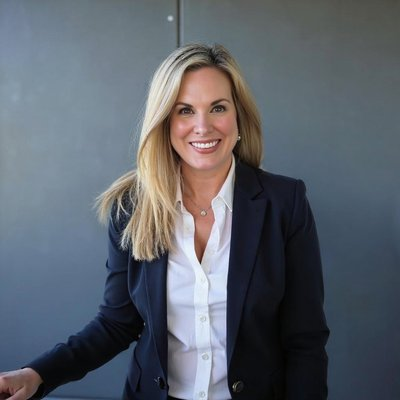
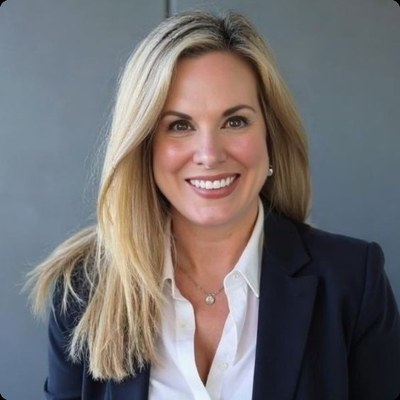
Research: add Kyle Forrest + Alicia Miller Transformation Realness episodes

diff --git a/research/index.html b/research/index.html
@@ -448,6 +448,30 @@ body[data-page="research"] { --accent: var(--sky); }
 
       <article class="pod-card">
         <div class="pod-art" style="aspect-ratio:1/1;overflow:hidden;position:relative;">
+          <img src="/assets/img/appearances/TR_Kyle Forrest _ Transformation Realness.jpg" alt="" style="width:100%;height:100%;object-fit:cover;display:block;">
+        </div>
+        <div class="pod-body">
+          <small style="display:block;font-size:.58rem;letter-spacing:.18em;text-transform:uppercase;color:var(--sky);font-weight:600;margin-bottom:.35rem;">Reactive to Proactive</small>
+          <h3>Reimagining HR &amp; AI Integration</h3>
+          <p>Kyle Lagunas and Deloitte's Kyle Forrest on why 93% of AI spend still goes to technology over people, and how HR moves from reactive to proactive to lead the transformation.</p>
+          <a href="https://open.spotify.com/episode/6IbBgf8HDph6eKeqJY21zv" class="listen" target="_blank" rel="noopener noreferrer">Listen on Spotify <span aria-hidden="true">→</span></a>
+        </div>
+      </article>
+
+      <article class="pod-card">
+        <div class="pod-art" style="aspect-ratio:1/1;overflow:hidden;position:relative;">
+          <img src="/assets/img/appearances/TR_Alicia Miller _ Transformation Realness.jpg" alt="" style="width:100%;height:100%;object-fit:cover;display:block;">
+        </div>
+        <div class="pod-body">
+          <small style="display:block;font-size:.58rem;letter-spacing:.18em;text-transform:uppercase;color:var(--sky);font-weight:600;margin-bottom:.35rem;">Human-Centric AI</small>
+          <h3>Redefining Human-Centric AI Strategies</h3>
+          <p>The IRS's Alicia Miller on leading AI adoption through behavioral science and redesigned work roles, and what it means to be human in the age of AI.</p>
+          <a href="https://open.spotify.com/episode/2KLixI8mrvttF4I7cw0WUw" class="listen" target="_blank" rel="noopener noreferrer">Listen on Spotify <span aria-hidden="true">→</span></a>
+        </div>
+      </article>
+
+      <article class="pod-card">
+        <div class="pod-art" style="aspect-ratio:1/1;overflow:hidden;position:relative;">
           <img src="/assets/img/appearances/TR_Tyler Weeks_ Transformation Realness.png" alt="" style="width:100%;height:100%;object-fit:cover;display:block;">
         </div>
         <div class="pod-body">

diff --git a/aicouncil-update-handoff.md b/aicouncil-update-handoff.md
@@ -1,0 +1,143 @@
+# Claude Code Handoff — AI Council Page Update (July 2026)
+
+**Target file:** `aicouncil/index.html` in the `kyleandco-web` repo (single-file React/JSX page, ~2,500 lines, inline Babel; images base64-inlined or in `aicouncil/`).
+**Goal:** Repurpose the page from "Cohort Zero toolkit showcase" to the Year Two launch: the new agenda goes front and center, the toolkit moves to the bottom, and the primary CTA targets vendors/underwriters.
+**Content source of truth:** deck D1 (all pillar/champion/workstream/member content below was extracted from it on 7/28) — https://docs.google.com/presentation/d/15BLXXlAD8rsCUfWenmZnQIVT-7pjkHQtmq9y17PrFWI/edit
+
+Work in a branch. Do not touch other pages in the repo.
+
+---
+
+## 1. Current page anatomy (verified July 28)
+
+Section order in the rendered JSX:
+
+| # | Section | Notes |
+|---|---------|-------|
+| 1 | Nav | Links: Toolkit `#library`, 2026 Work `#work`, Members `#members`, How to Participate `#join`. CTA button "Join the Council" |
+| 2 | Hero | Badge: `Cohort Two · 2026 · The Year of the Human`. H1 "Stay ahead of AI innovation…". Primary CTA "Explore the Toolkit →" (`#library`) |
+| 3 | About the Council | "Practitioner-led. Five pillars. One goal." — inline 5-pillar array (~line 817), no champions |
+| 4 | Featured post | Links to toolkit blog `kyleandco.com/ai-toolkit-for-hr-leaders/` |
+| 5 | `#library` | The AI Transformation Toolkit — currently "the star", gated resources (`const resources`, ~line 237) |
+| 6 | `#events` | `const events` (~line 527) — **stale**: May 28 "Cohort Zero Toolkit Launch" still marked `upcoming` |
+| 7 | `#work` | `const focusAreas` (~line 328) — 4 old focus areas, replace with the 5 priorities below |
+| 8 | `#cohort2-apply-grid` | Apply section |
+| 9 | `#members` | `const members` (~line 359) — 23 entries incl. Tushar Pandit (~line 466) |
+| 10 | `#join` | Participation forms. MailerLite endpoints defined (~lines 212–217): `ML_APPLY_URL`, `ML_KCO_URL`, `ML_TOWNHALL_URL`, `ML_UNDERWRITER_URL`, `ML_MOMENTUM_URL` |
+
+Other data: `const underwriters` (~line 523) = `['Workday','Findem','Warden AI','Humanly','GoodTime','Rival','isolved','Glider','CodeSignal','Gem','HiBob','SmartRecruiters']`. Analytics via `track()` — preserve and extend, don't remove.
+
+---
+
+## 2. Structural changes
+
+**A. Reorder sections.** New order after hero: **About the Council (pillars + champions) → 2026 Priorities/Workstreams (`#work`) → Members → Events/Town Hall → Join/CTAs → Toolkit (`#library`) at the bottom → Former Contributing Members (also at the bottom, with the toolkit).** Kyle's directive (7/22 1:1): "what should be top and front and center is the agenda… toolkit down at the bottom." Update nav links, mobile menu, footer links, and hero CTAs to match — hero primary CTA points at `#work` or the underwriter CTA, not the toolkit. **The Toolkit keeps its top-nav link** even though the section moves to the bottom (Brandice, 7/28).
+
+**B. Rebuild the CTA strategy.** Primary audience is now **vendors/underwriters** (Kyle, 7/22: "we need more underwriters"). Use existing `ML_UNDERWRITER_URL` form. Secondary CTA: "follow along with the council's work" subscribe (`ML_KCO_URL`). Keep the practitioner apply form but demote it.
+
+**C. Fix `#events`.** Move the May 28 Cohort Zero Toolkit Launch to `status: 'replay'`. Add the **Year Two Launch Town Hall** entry: `date: 'August 27, 2026 · time TBA'`, `status: 'upcoming'`, wired to `ML_TOWNHALL_URL` — vendors explicitly invited. (Confirmed by Brandice 7/28; update time when set.)
+
+**D. Copy pass on hero/meta.** **Naming decision (Brandice, 7/28): "Year Two."** Replace "Cohort Two" everywhere — hero badge (e.g. `Year Two · 2026 · The Year of the Human`), the `#cohort2-apply-grid` id, title/OG meta, and any body copy. Keep the "What is Human?" theme. Where the previous cohort is referenced, "Year One" / "Cohort Zero" per existing toolkit copy.
+
+**E. Cohort work highlight.** Show Year One's shipped toolkit assets as proof of what the council ships, placed with the demoted toolkit section.
+
+**F. Underwriter logo wall — split by year (CONFIRMED by Brandice, 7/28).** Two groups:
+- **Year Two Underwriters (final list, 5):** isolved, Glider, CodeSignal, HiBob, GoodTime. Nothing else goes in this group — Workday, Gem, and SmartRecruiters are Year One only.
+- **Year One Underwriters:** the full original list of 12 (Workday, Findem, Warden AI, Humanly, GoodTime, Rival, isolved, Glider, CodeSignal, Gem, HiBob, SmartRecruiters) under a "Year One" heading — nobody gets scrubbed from history.
+Place Year Two prominently (near the underwriter CTA); Year One sits lower/smaller near the toolkit/former-members zone. Note the existing logo strips (`vendor-logos-line1.png`/`line2.png` in `aicouncil/`) bake all logos into two images — the Year Two group needs the five logos split out or a new strip; individual logo files may exist in the `Kyle & Co` folder (`Client Logos/`, `HCAIC/Underwriter logos/`).
+
+**G. Featured post.** Kyle's Year Two announcement blog is coming shortly — keep the toolkit post in the slot; structure it so the URL swap is a one-line change. Get the URL from Brandice at run time if available.
+
+---
+
+## 3. Content — FINAL, from deck D1
+
+### 3a. Pillars + Champions (pillars unchanged; add champions)
+
+| Pillar | Champion |
+|---|---|
+| AI Literacy & Education | Kate Gilkey |
+| AI Trust & Safety | Bruce Nichols |
+| AI Value Realization | **Kate Warman** |
+| AI Adoption & Change Management | **Bill Musman** |
+| Forward-Thinking & Future-Ready AI | Adam Treitler |
+
+*(Deck confirms the Fathom recap, not Kyle's 7/17 email — Warman on Value, Musman on Adoption.)* Keep existing pillar blurbs/objectives on the page; they match the deck's "Pillars & Objectives" slides.
+
+### 3b. Replace `focusAreas` with the five Year Two priorities
+
+Number them 01–05 as in the deck. Each card: number, title, leader, "What We'll Do" blurb, flagship outputs (trim to top 2–3 per card; full lists below for the detail modal if kept).
+
+**01 · Map AI's Impact on HR** — Leader: Kirandeep Virdi
+Track how AI is actively reshaping HR work — identifying what's being automated, augmented, and left to human judgment across the function.
+Outputs: AI impact heatmap across HR functions · Human vs. AI work map (task-level) · role-by-role analysis of shifting skills and scope · "what's changing now" briefs.
+
+**02 · Define the Human-Centered HR Operating Model** — Leader: Clayton Rodgers
+Clarify how HR must be restructured as AI becomes embedded in work — building a practical model around human strengths and AI-enabled capabilities.
+Outputs: role redesign guidance (TA, HRBPs, L&D, HR Ops) · HR operating model archetypes · before/after "day in the life" workflow comparisons · executive translation guide.
+
+**03 · Build a Practical HR AI Governance & Risk Framework** — Leader: Susan Jackson
+Help HR leaders govern AI responsibly in high-stakes processes — clarifying decision rights, human accountability, and how to move from "could we?" to "should we?"
+Outputs: HR AI governance operating model · risk typology (where human judgment cannot be delegated: hiring, performance, pay, terminations) · AI risk index by vendor and HR process · governance maturity assessment · regulatory briefings.
+
+**04 · Scale AI Literacy into Practical Capability** — Leader: Jelena Marjanovic
+Build on Year One's foundational AI Literacy Toolkit and CodeSignal course — moving from awareness into role-specific, outcomes-anchored, Monday-morning-actionable capability.
+Outputs: practitioner playbook by role and business outcome · "force multiplier" framework · use case library mapped to productivity, analytics, and cross-functional ROI · expanded CodeSignal course content.
+
+**05 · Launch the Human-Centric AI Impact Analysis Program** — Leader: Rob Devlin
+Capture how organizations are actually implementing AI in HR — going deep on what worked, what didn't, and what the human and business impact really looked like.
+Outputs: dual-dimension impact framework (business ROI + human impact) · 4–6 published impact analyses across functions, industries, and company sizes · anonymous-first publishing with opt-in recognition · lessons-learned synthesis.
+
+*(Display name confirmed by Brandice 7/28: **"Human-Centric AI Impact Analysis Program."** The deck's workstream-leader slide calls it "Human-Centric AI Case Studies" — use Impact Analysis Program in page copy.)*
+
+### 3c. Members — rebuild `members` array from the deck roster (27 people)
+
+**Champions** (titles NOT in deck — get from Brandice/Kyle's headshot collection; use title placeholders until then):
+Kate Gilkey · Bruce Nichols · Kate Warman · Bill Musman · Adam Treitler
+*(Existing page entries for Nichols, Warman, Musman, Treitler have titles/bios/photos — keep those, add champion badge. Kate Gilkey is NEW.)*
+
+**Members by pillar (name — title, per deck):**
+
+*AI Literacy & Education:* Jelena Marjanovic, PhD — Founder, AI at Work `NEW` · Melissa Laswell — Head of Executive Recruitment · Rachel Bourne — Vice President, AI Transformation *(title changed from "Host, The Shift Show" — update)* · Robyn Mather — Founder & CEO, Leadership State of Mind `NEW` · Sarika Lamont — Chief People & AI Enablement Officer *(title updated)*
+
+*AI Trust & Safety:* Bradley Clark — Global Head of Talent Acquisition & Employer Brand `NEW` · Christi Anthony — Director, E&LR Governance & Compliance `NEW` · Jon Fraschetti — Director, Talent Operations, Tech & Analytics `NEW` · Susan Jackson — Executive Director, Global Talent Technology (fmr) · Tara Torres — Senior Manager, Talent Strategy & Operations (fmr)
+
+*AI Value Realization:* Daniel Morales — Senior Manager, People Solutions & AI · Dustin Cann — Senior Director, Talent Acquisition Strategy & Ops · Rita Domarkaite — Senior Director, Talent Transformation `NEW` · Sarah Smart — SVP, Global Talent Acquisition & Workforce Strategy
+
+*AI Adoption & Change Management:* Clayton Rodgers — Senior HRBP, HR Enablement & AI Transformation `NEW` · Johnny Sanchez — Head of Recruiting Ops & Technology `NEW` · Kaity Jacobsen — Director, Talent Engagement `NEW` · Sydney Edman — Head of People Operations `NEW`
+
+*Forward-Thinking & Future-Ready AI:* Bob Pulver — Founder & Principal, Elevate Your AIQ · Jeremy Lyons — Co-Founder, RecOps Collective `NEW` · Kirandeep Virdi — Head of People & Culture (fmr) `NEW` · Rob Devlin — Sr Global Program Manager, TA Technology `NEW`
+
+**Implementation notes:**
+- **Headshots for all 27 members are already in `aicouncil/member-headshots/`** (extracted from the deck 7/28, 400×400, kebab-case: `kate-gilkey.jpg`, `jelena-marjanovic.jpg`, `bradley-clark.jpg`, etc.). Returning members' files were overwritten with the deck versions so the grid is visually consistent — git has the old versions if any need reverting. No avatar fallbacks needed.
+- **Bios: see companion file `aicouncil-new-member-content.md`** — ready-to-insert role/photo/linkedin/bio for 7 of the 14 new members (from the HCAIC bios Google Doc, extracted 7/28); the other 7 ship with name + title + pillar only (bio field optional in the array). Returning members keep their existing bios/linkedin; update titles where the deck differs (Rachel Bourne, Sarika Lamont).
+- Keep existing filename extensions: `bill-musman.png` and `bruce-nichols.png` stay `.png`; everyone else `.jpg`.
+- **FORMER CONTRIBUTING MEMBERS (Brandice, 7/28):** members from the original cohort who are not in the deck roster move to a new **"Former Contributing Members"** section placed at the bottom of the page alongside the toolkit — do NOT delete them. Applies to: Tushar Pandit, Kelly Cartwright, Tiffany Clark, Amy Cropper, Martha Curioni, Adam Dayan, Logan Marsh, Alicia Miller, Manjuri Sinha, Allie Wehling (10 people). Reuse their existing photos/titles; smaller/denser cards than active members are fine.
+- Consider grouping the active member grid by pillar (deck structure) instead of alphabetical — champion first in each group.
+- Update any member-count copy on the page to match the final split (27 active / 10 former).
+
+---
+
+## 4. Open questions (do NOT guess — ask Brandice)
+
+1. Town hall time on Aug 27 (date confirmed, time TBA).
+2. Display name "Brad Clark" vs "Bradley Clark" (deck vs bios doc).
+
+*(Resolved: Kate Gilkey = Sr. HR Systems Manager, CrowdStrike — from the bios doc.)*
+
+*(Resolved 7/28 by Brandice: "Year Two" naming · priority 05 = "Impact Analysis Program" · underwriters split Year Two/Year One with lapsed kept in Year One only · town hall Aug 27 · former-cohort members → Former Contributing Members section · headshots local · blog URL coming soon.)*
+
+## 5. Constraints
+
+- Single self-contained file; keep the existing design system (Fraunces/Inter/JetBrains Mono, ivory/navy/lilac palette, `C` color object).
+- Preserve all `track()` calls; add events for new CTAs (`underwriter_cta_click`, `townhall_register`, `workstream_open`).
+- Preserve MailerLite form wiring and jsonbin click tracking.
+- Mobile: verify reordered nav/mobile menu and member grid at small widths.
+- QA before commit: all anchors resolve post-reorder; no orphaned "Explore the Toolkit" references above the fold; member count matches array; new-member cards render cleanly without photos.
+
+## 6. Source receipts
+
+- Deck D1 (content above): https://docs.google.com/presentation/d/15BLXXlAD8rsCUfWenmZnQIVT-7pjkHQtmq9y17PrFWI/edit
+- 7/22 1:1 (Otter): page structure directive — agenda front and center, toolkit to bottom, vendor CTA, town hall late Aug.
+- 7/27 1:1 (Otter): Tushar out; priority order = headshot template → website update → email campaign.
+- Kyle emails 7/17 + 7/20 ("HCAIC Update: Welcome to the Steering Committee!!!"): SteerCo announcement, D1 link, 7/31 deadline for workstream leads' final copy — expect minor copy revisions after 7/31.

diff --git a/aicouncil-new-member-content.md b/aicouncil-new-member-content.md
@@ -1,0 +1,71 @@
+# New Member Content — AI Council Page (Year Two)
+
+Companion to `aicouncil-update-handoff.md` §3c. Ready-to-insert data for the 14 members being ADDED to the `members` array. Returning members keep their existing page bios (update titles only where the handoff says so).
+
+Source: [HCAIC member bios Google Doc](https://docs.google.com/document/d/1OyKlZxrV2U9sSHWNDBZH88yoNyG1jwpVdzlaT2sbytg/edit) (extracted 7/28). Card bios below are condensed to match the existing page's bio length/style; full versions are in the doc.
+
+---
+
+## Bios ready (7)
+
+**Kate Gilkey** — *Pillar Champion, AI Literacy & Education*
+role: `Sr. HR Systems Manager, CrowdStrike`
+photo: `member-headshots/kate-gilkey.jpg`
+linkedin: `https://www.linkedin.com/in/kate-gilkey/`
+bio: HR technology and employee experience leader with 15+ years driving workforce transformation across people strategy, product management, and digital innovation. At CrowdStrike she leads employee lifecycle technology strategy — launching an enterprise skills program, modernizing onboarding, and advancing AI education across HR teams. Previously led employee experience at Bezos Academy and held HR product and program roles at Amazon.
+
+**Jelena Marjanovic, PhD** — *Workstream Leader, AI Literacy into Capability*
+role: `Founder, AI at Work`
+photo: `member-headshots/jelena-marjanovic.jpg`
+linkedin: `https://www.linkedin.com/in/marjanovicjelena/`
+bio: AI adoption consultant and learning designer, and founder of AI at Work. Fifteen years designing training for organizations including KPMG, PwC, and the Canadian Red Cross. Helps companies build AI literacy and the genAI use cases that improve how they operate, with a focus on workflows, judgment, and adoption that lasts. Holds a PhD in technology-enhanced education.
+
+**Robyn Mather**
+role: `Founder & CEO, Leadership State of Mind`
+photo: `member-headshots/robyn-mather.jpg`
+linkedin: `https://www.linkedin.com/in/robynmather/`
+bio: 20+ years in leadership development, strategic planning, and culture design. Founder of Leadership State of Mind, a leadership advisory practice built on Culture Before Code™ — the conviction that AI and technology fail when leaders and culture aren't ready to lead the change. Created an intensive leadership program that equipped 80+ mid-career women to lead at expanded levels.
+
+**Brad Clark** *(deck says "Bradley Clark" — bios doc uses "Brad"; confirm display name)*
+role: `Global Head of Talent Acquisition & Employer Brand, Article`
+photo: `member-headshots/bradley-clark.jpg`
+linkedin: `https://www.linkedin.com/in/bradmclark/`
+bio: Leads global Talent Acquisition and Employer Branding at Article, where he built the TA function from the ground up and became an early practitioner of integrating AI into hiring — he now sits on Article's senior AI Council shaping its AI principles and adoption roadmap. Previously founded Bear Recruitment Consulting (Samsung R&D, Boeing Labs, Best Buy, Match Group) and co-founded candidate communications platform Keeyora.
+
+**Kaity Jacobsen**
+role: `Director, Talent Engagement, Xactly`
+photo: `member-headshots/kaity-jacobsen.jpg`
+linkedin: `https://www.linkedin.com/in/kaityjacobsen/`
+bio: Leads forward-thinking people programs at the intersection of talent, technology, and AI at Xactly Corporation. Over a decade in high-growth environments aligning people performance with business strategy, guiding executive teams through rapid change, and designing resilient talent systems built for real-world execution. Co-founder of Alta, a community for women leading in Arizona's tech sector.
+
+**Sydney Edman**
+role: `Head of People Operations, Pathpoint`
+photo: `member-headshots/sydney-edman.jpg`
+linkedin: `https://www.linkedin.com/in/sydney-edman/`
+bio: Strategic, hands-on HR leader with 10+ years building, operationalizing, and leading People Operations in high-growth startups. Founding People Operations leader for GitKraken and Pathpoint, with deep operational expertise across the employee lifecycle and a focus on scalable people practices that let employees and businesses thrive together.
+
+**Kirandeep Virdi** — *Workstream Leader, AI's Impact on HR*
+role: `Head of People & Culture (fmr), Asper.ai`
+photo: `member-headshots/kirandeep-virdi.jpg`
+linkedin: `https://www.linkedin.com/in/kirandeep-virdi-250787/`
+bio: Builder connecting people, technology, and business growth, with 15+ years turning people functions into growth engines across AI tech, telecom, and financial services at Asper.ai, Sprinklr, NatWest, and Airtel. Currently completing an MS in Human Capital Analytics & Technology at NYU, prototyping AI-powered HR solutions and engineering systems that let businesses scale without losing their humanity.
+
+## Bios NOT yet in the doc (7) — ship with name + title + pillar only
+
+| Name | Role (from deck) | Photo | LinkedIn |
+|---|---|---|---|
+| Christi Anthony | Director, E&LR Governance & Compliance | `christi-anthony.jpg` | — |
+| Jon Fraschetti | Director, Talent Operations, Tech & Analytics | `jon-fraschetti.jpg` | — |
+| Rita Domarkaite | Senior Director, Talent Transformation | `rita-domarkaite.jpg` | — |
+| Clayton Rodgers *(Workstream Leader, HR Operating Model)* | Senior HRBP, HR Enablement & AI Transformation | `clayton-rodgers.jpg` | — |
+| Johnny Sanchez | Head of Recruiting Ops & Technology | `johnny-sanchez.jpg` | — (marked "pend" in doc) |
+| Jeremy Lyons | Co-Founder, RecOps Collective | `jeremy-lyons.jpg` | — |
+| Rob Devlin *(Workstream Leader, Impact Analysis Program)* | Sr Global Program Manager, TA Technology | `rob-devlin.jpg` | — (marked "pend" in doc) |
+
+Add bios/LinkedIn to these cards as the doc fills in — structure the array so a bio is optional and the card renders cleanly without one.
+
+## Notes
+
+- The bios doc also contains full bios for several **Former Contributing Members** (Kelly Cartwright, Amy Cropper, Martha Curioni, Logan Marsh, Alicia Miller, Allie Wehling, Tushar Pandit) — former-member cards don't need bios, but they're available if the section design wants a one-liner.
+- The doc lists two names not in the deck roster: **Aspen Abman** and **Kira Feick** (both "pend"). Do NOT add them to the page — possible incoming members; Brandice confirms if/when they're official.
+- Susan Jackson's doc bio says she's at Estée Lauder; the deck title says "(fmr)". Use the deck title on her card (existing page bio already matches).

diff --git a/COUNCIL-PAGE-UPDATE-CHECKLIST.md b/COUNCIL-PAGE-UPDATE-CHECKLIST.md
@@ -1,0 +1,51 @@
+# AI Council Page Update — Working Checklist
+*Prepared July 28, 2026 · Sources: current `kyleandco-web/aicouncil/index.html`, Kyle/Brandice 1:1s (Jul 22 + Jul 27), Kyle's SteerCo emails (Jul 17 + Jul 20), Fathom recap of Jul 20 council meeting*
+
+## ✅ Resolved (deck D1 extracted 7/28 — content now in the handoff doc)
+
+- [x] **Pillar champions confirmed from deck:** Gilkey→Literacy, Nichols→Trust & Safety, **Warman→Value Realization, Musman→Adoption & Change Mgmt** (Kyle's 7/17 email had these two swapped — deck + meeting recap agree, deck wins), Treitler→Forward-Thinking.
+- [x] **Five priorities + workstream leaders + blurbs + flagship outputs** — pulled from deck, written into handoff §3b.
+- [x] **Member roster (27 people, by pillar, with titles)** — pulled from deck, written into handoff §3c. 14 are new to the page.
+
+## ✅ Also resolved 7/28
+
+- [x] **Original-cohort members not in the deck → "Former Contributing Members" section** at the bottom with the toolkit (10 people incl. Tushar). Toolkit keeps its top-nav link. In handoff §2A + §3c.
+- [x] **All 27 headshots extracted from the deck** and committed to `aicouncil/member-headshots/` (kebab-case, 400×400). Returning members' photos overwritten with deck versions — git has the old ones if needed.
+
+## ✅ Decisions locked 7/28 (in handoff)
+
+- [x] Naming: **Year Two**
+- [x] Priority 05: **Human-Centric AI Impact Analysis Program**
+- [x] Underwriters: **Year Two = isolved, Glider, CodeSignal, HiBob, GoodTime** (confirmed); **Year One** section keeps the full original 12
+- [x] Town hall placeholder: **August 27, 2026** (time TBA)
+- [x] Blog: coming soon — toolkit post holds the featured slot, one-line swap when live
+
+## ⚠ Still open — resolve before final ship
+
+- [ ] **Year Two logo assets:** the page's current logo strips are baked PNGs of all 12 — the 5 Year Two logos (isolved, Glider, CodeSignal, HiBob, GoodTime) need to be split out. Check `Client Logos/` and `HCAIC/Underwriter logos/` for individual files.
+- [ ] **Workstream copy may still shift ~7/31** — leads owe Kyle final "What We'll Do / How We'll Do It" by end of week. Deck copy is good enough to build with; plan a quick copy pass after.
+- [ ] **Bios still missing for 7 new members** (Christi Anthony, Jon Fraschetti, Rita Domarkaite, Clayton Rodgers, Johnny Sanchez, Jeremy Lyons, Rob Devlin) — the other 7 are extracted and card-ready in `aicouncil-new-member-content.md`. Kate Gilkey's title resolved (Sr. HR Systems Manager, CrowdStrike). Chase the missing 7 in the bios doc; three workstream leaders are among them.
+- [ ] **Town hall time** on Aug 27 + Kyle's blog URL when live.
+
+## Content prep (yours)
+
+- [ ] Write 1–2 sentence vendor CTA copy (goal: new underwriters — this is the page's revenue job now)
+- [ ] Gather new member bios/photos as they come in (drop into `aicouncil/member-headshots/`)
+
+## Page changes (what Claude Code will execute — see handoff doc)
+
+- [ ] Restructure page order: **agenda/workstreams front and center**, toolkit demoted to bottom
+- [ ] Replace 4 old `focusAreas` with the 5 Year Two priorities + leaders (content final, in handoff §3b)
+- [ ] Add pillar champions to the existing 5-pillar block (pillars themselves unchanged)
+- [ ] Rebuild members array from deck roster: remove Tushar, update titles (Rachel Bourne, Sarika Lamont), add 14 new members with avatar fallbacks
+- [ ] New primary CTA: vendor/underwriter recruitment (form already exists on page) + secondary "follow along" subscribe
+- [ ] Fix stale events section; add town hall placeholder ("Late August · date TBA")
+- [ ] Update hero + meta copy for Year Two
+- [ ] Verify member count claims, nav labels, and internal anchors still make sense after reorder
+
+## Sequence
+
+1. Answer the open questions above (the 9-removals one is the only true blocker — everything else can ship with a noted default)
+2. Run the Claude Code handoff — it can now run in **one pass**; only headshots/bios and post-7/31 copy tweaks trail in
+3. QA on mobile + desktop, check MailerLite forms still fire
+4. Ship → then email campaign (your stated priority order: headshot template → website → email)
